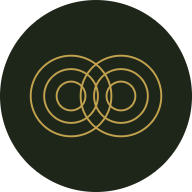
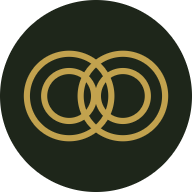
chore: update favico for next js conventions

Changed region(s): [[0.125, 0.25, 0.875, 0.75]]

diff --git a/app/layout.tsx b/app/layout.tsx
@@ -23,17 +23,6 @@ export const metadata: Metadata = {
   description:
     "Satinwood embeds senior finance operators from Sri Lanka full-time as your outsourced controller, FP&A, or accounting team, for a fraction of a local hire.",
   alternates: { canonical: "/" },
-  // Favicon bundle lives in /public (see tmp/facicon-update). This reproduces the
-  // generator's recommended <head> markup: svg + 96px png + .ico + apple-touch + manifest.
-  icons: {
-    icon: [
-      { url: "/favicon-96x96.png", sizes: "96x96", type: "image/png" },
-      { url: "/favicon.svg", type: "image/svg+xml" },
-    ],
-    shortcut: "/favicon.ico",
-    apple: { url: "/apple-touch-icon.png", sizes: "180x180" },
-  },
-  manifest: "/site.webmanifest",
   appleWebApp: { title: "Satinwood" },
   robots: {
     index: true,